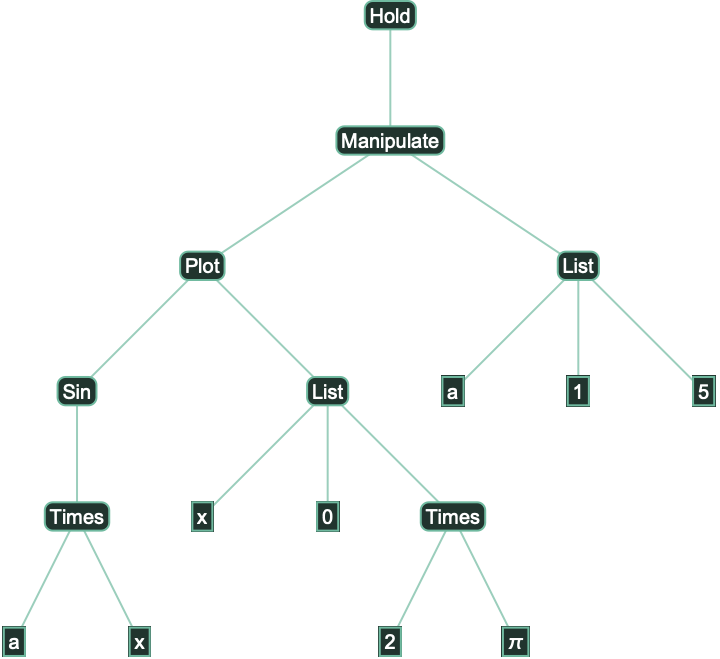
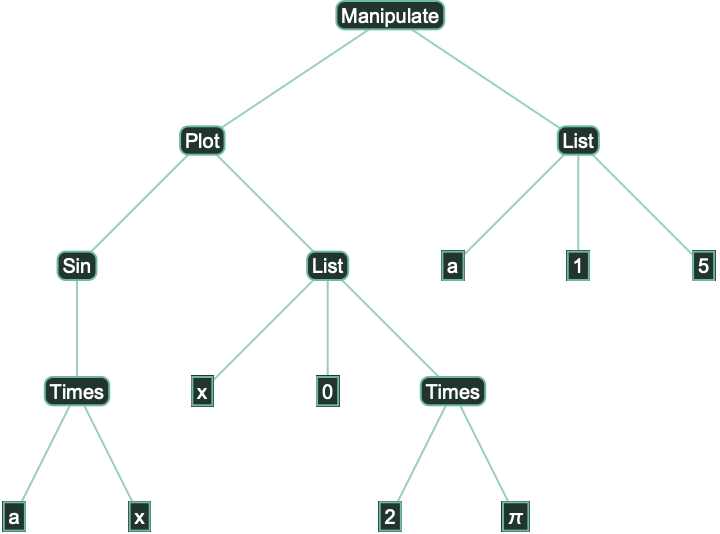
ExpressionTree via Unevaluated (no Hold node)

diff --git a/src/film/codes.ts b/src/film/codes.ts
@@ -15,6 +15,6 @@ export const CODE = {
   x_graph: "Graph[Flatten[Thread[UndirectedEdge[#, WolframLanguageData[#, \"RelatedSymbols\"]]] & /@ seeds]]",
   x_fireballs: "GeoBubbleChart[ResourceData[\"Fireballs and Bolides\"][All, #Coordinates -> #TotalRadiatedEnergy &]]",
   x_compile: "cf = FunctionCompile[Function[Typed[n, \"MachineInteger\"], Module[{s = 0., i = 1}, While[i <= n, s += Sin[N[i]]^2; i++]; s]]]",
-  x_tree: "ExpressionTree[Hold[Manipulate[Plot[Sin[a x], {x, 0, 2 Pi}], {a, 1, 5}]]]",
+  x_tree: "ExpressionTree[Unevaluated[Manipulate[Plot[Sin[a x], {x, 0, 2 Pi}], {a, 1, 5}]]]",
   x_quantum: "QuantumCircuitOperator[{\"H\", \"CNOT\" -> {1, 2}, \"CNOT\" -> {2, 3}}][\"Diagram\"]",
 };

diff --git a/docs/SNIPPETS.md b/docs/SNIPPETS.md
@@ -299,7 +299,7 @@ pq = CreateDataStructure["PriorityQueue"]; Scan[pq["Push", #] &, {3, 1, 4, 1, 5}
 ### 50. `bigsur@46#16` · 1:43.8 · v123 · Untitled-1.nb · In[7]
 
 ```wl
-ExpressionTree[Hold[Manipulate[Plot[Sin[a x], {x, 0, 2 Pi}], {a, 1, 5}]]]
+ExpressionTree[Unevaluated[Manipulate[Plot[Sin[a x], {x, 0, 2 Pi}], {a, 1, 5}]]]
 ```
 
 ### 51. `bigsur@46#18` · 1:46.0 · v132 · Untitled-1.nb · In[8]
